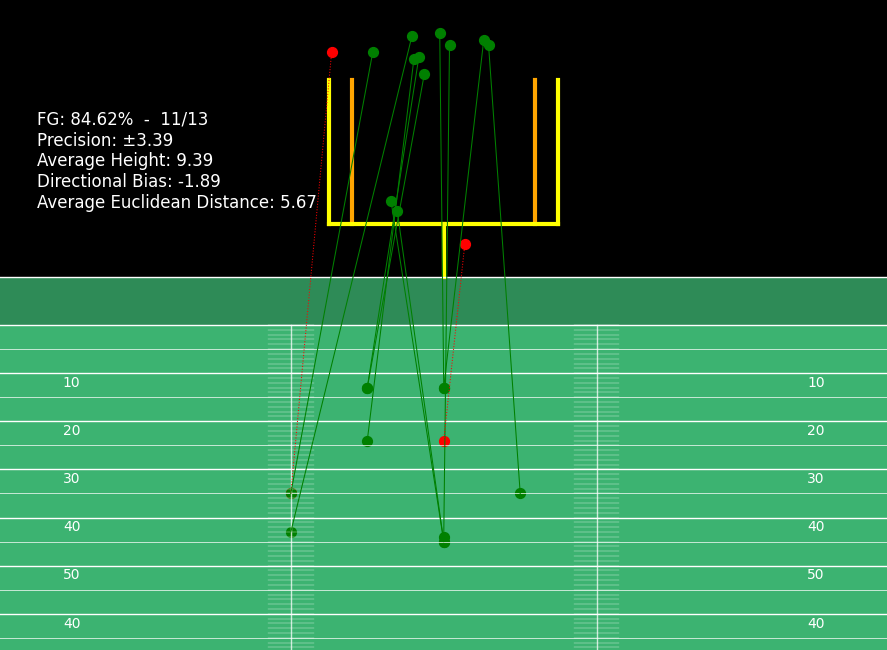
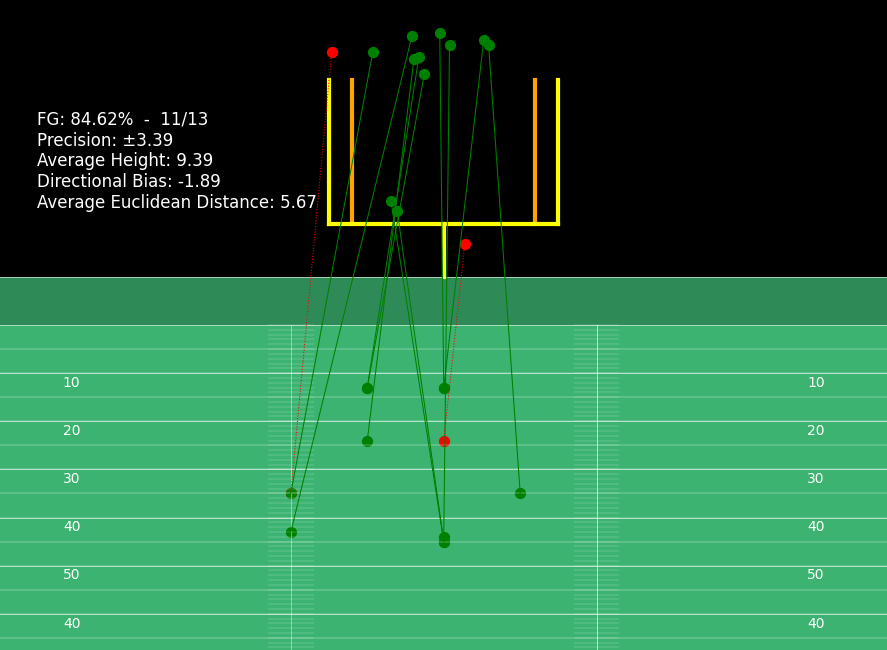
changed plot lines a bit

diff --git a/Kicking Code/website/_visualization.py b/Kicking Code/website/_visualization.py
@@ -144,7 +144,7 @@ def submit_form():
     
       # 10 Yard lines
     for yard_line in range(60, -20, -10):
-      ax.plot([0, 53.3], [yard_line, yard_line], color='white', linewidth=1)
+      ax.plot([0, 53.3], [yard_line, yard_line], color='white', linewidth=0.4)
     
       # Yard numbers
     for yard_line in range(0, 45, 10):
@@ -153,21 +153,21 @@ def submit_form():
     
       # 5 Yard lines  
     for yard_line in range(45, -25, -5):
-      ax.plot([0, 53.3], [yard_line, yard_line], color='white', linewidth=0.5)
+      ax.plot([0, 53.3], [yard_line, yard_line], color='white', linewidth=0.25)
 
-      # Left Hash Mark
-    ax.plot([17.75, 17.75], [-30, 50], color='white', linewidth=1, alpha = 0.75) # Left Hash
+      # Left Hash Line
+    ax.plot([17.75, 17.75], [-30, 50], color='white', linewidth=0.6, alpha = 0.5) # Left Hash
     
       # Left Hash Marks
     for yard_line in range(50, -30, -1):
-      ax.plot([16.425, 19.075], [yard_line, yard_line], color='white', linewidth=0.25)
+      ax.plot([16.425, 19.075], [yard_line, yard_line], color='white', linewidth=0.15)
     
       # Right Hash Line
-    ax.plot([35.55, 35.55], [-30, 50], color='white', linewidth=1, alpha = 0.75) # Right Hash
+    ax.plot([35.55, 35.55], [-30, 50], color='white', linewidth=0.6, alpha = 0.75) # Right Hash
     
       # Right Hash Marks
     for yard_line in range(50, -30, -1):
-      ax.plot([34.225, 36.875], [yard_line, yard_line], color='white', linewidth=0.25)
+      ax.plot([34.225, 36.875], [yard_line, yard_line], color='white', linewidth=0.15)
 
     ax.text(5, -13.5, "40", ha = 'center', va = 'bottom', color = 'white') # Left
     ax.text(48.3, -13.5, "40", ha = 'center', va = 'bottom', color = 'white') # Right
